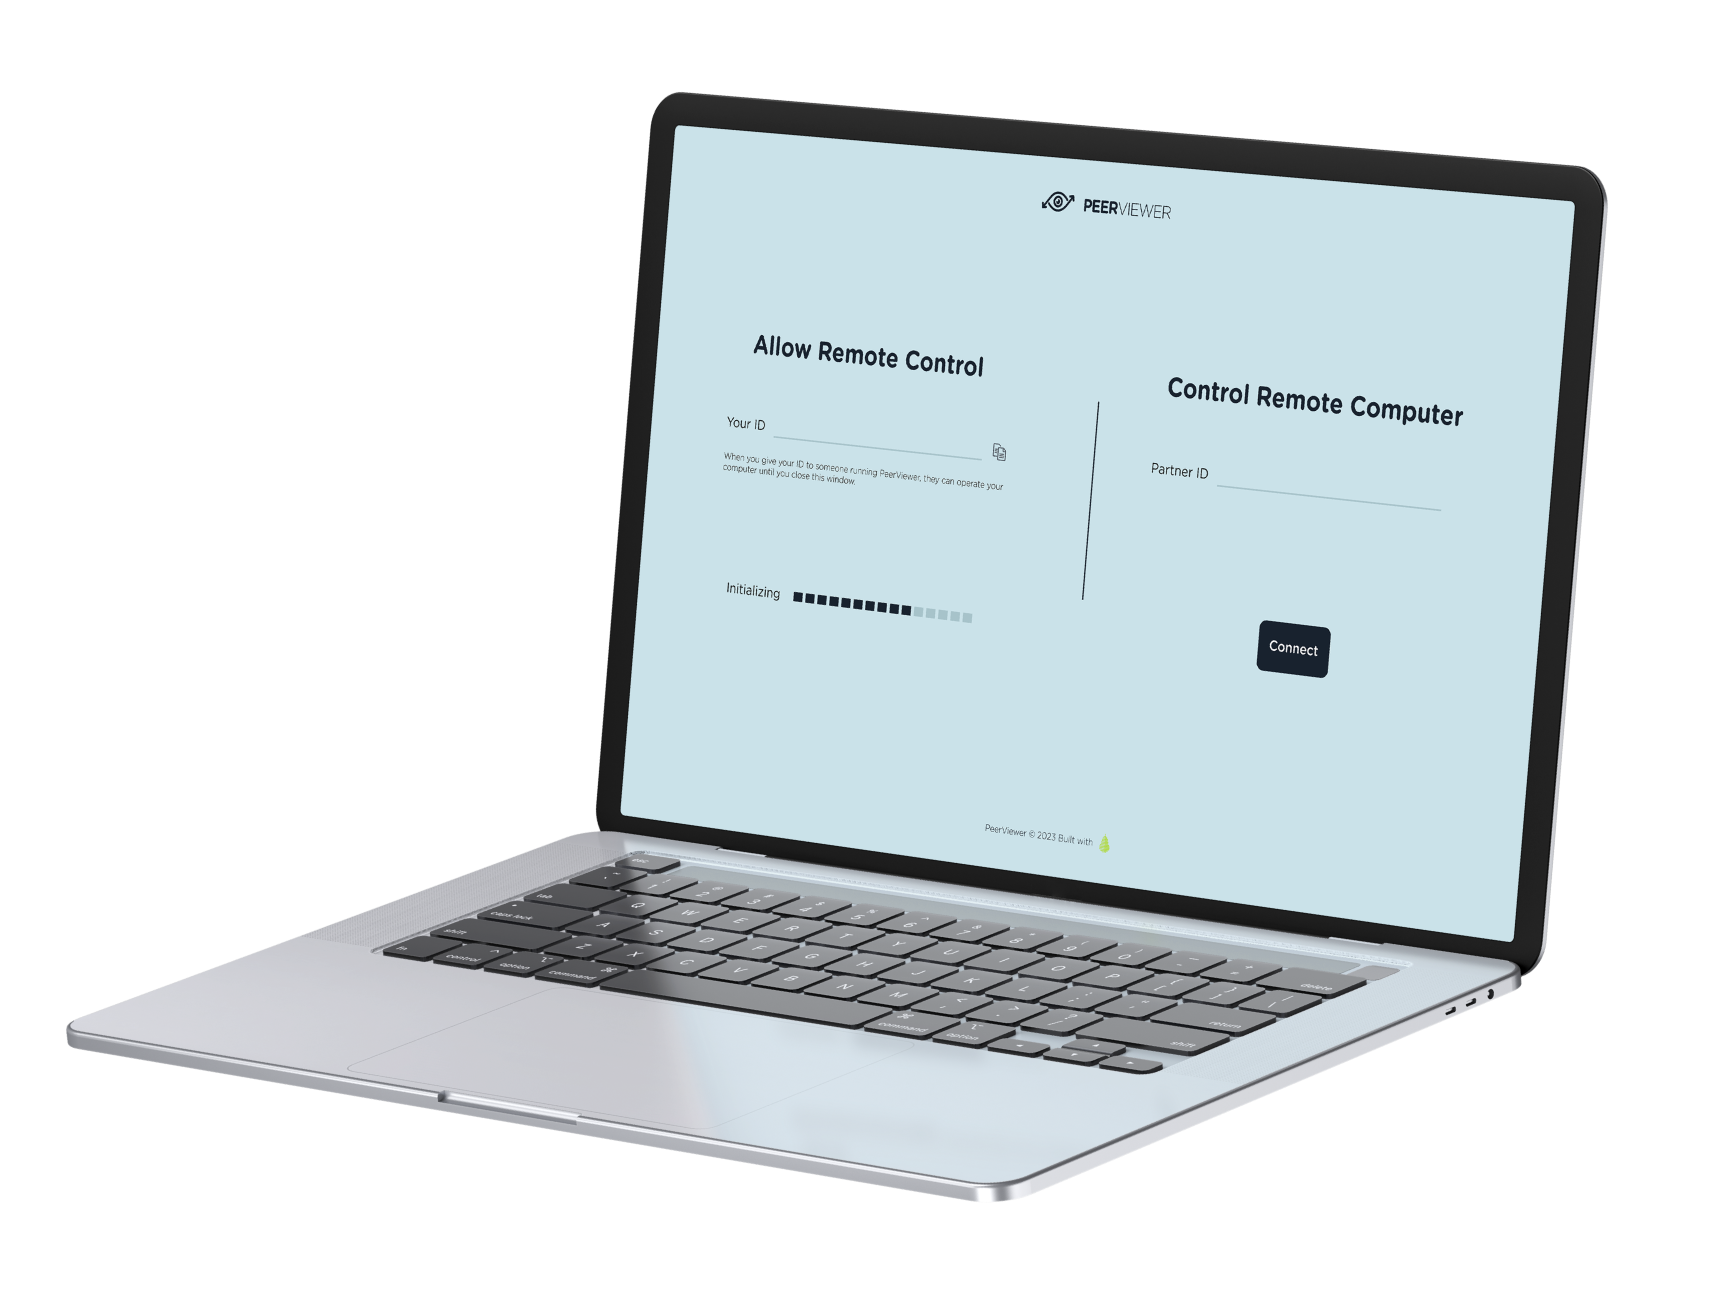
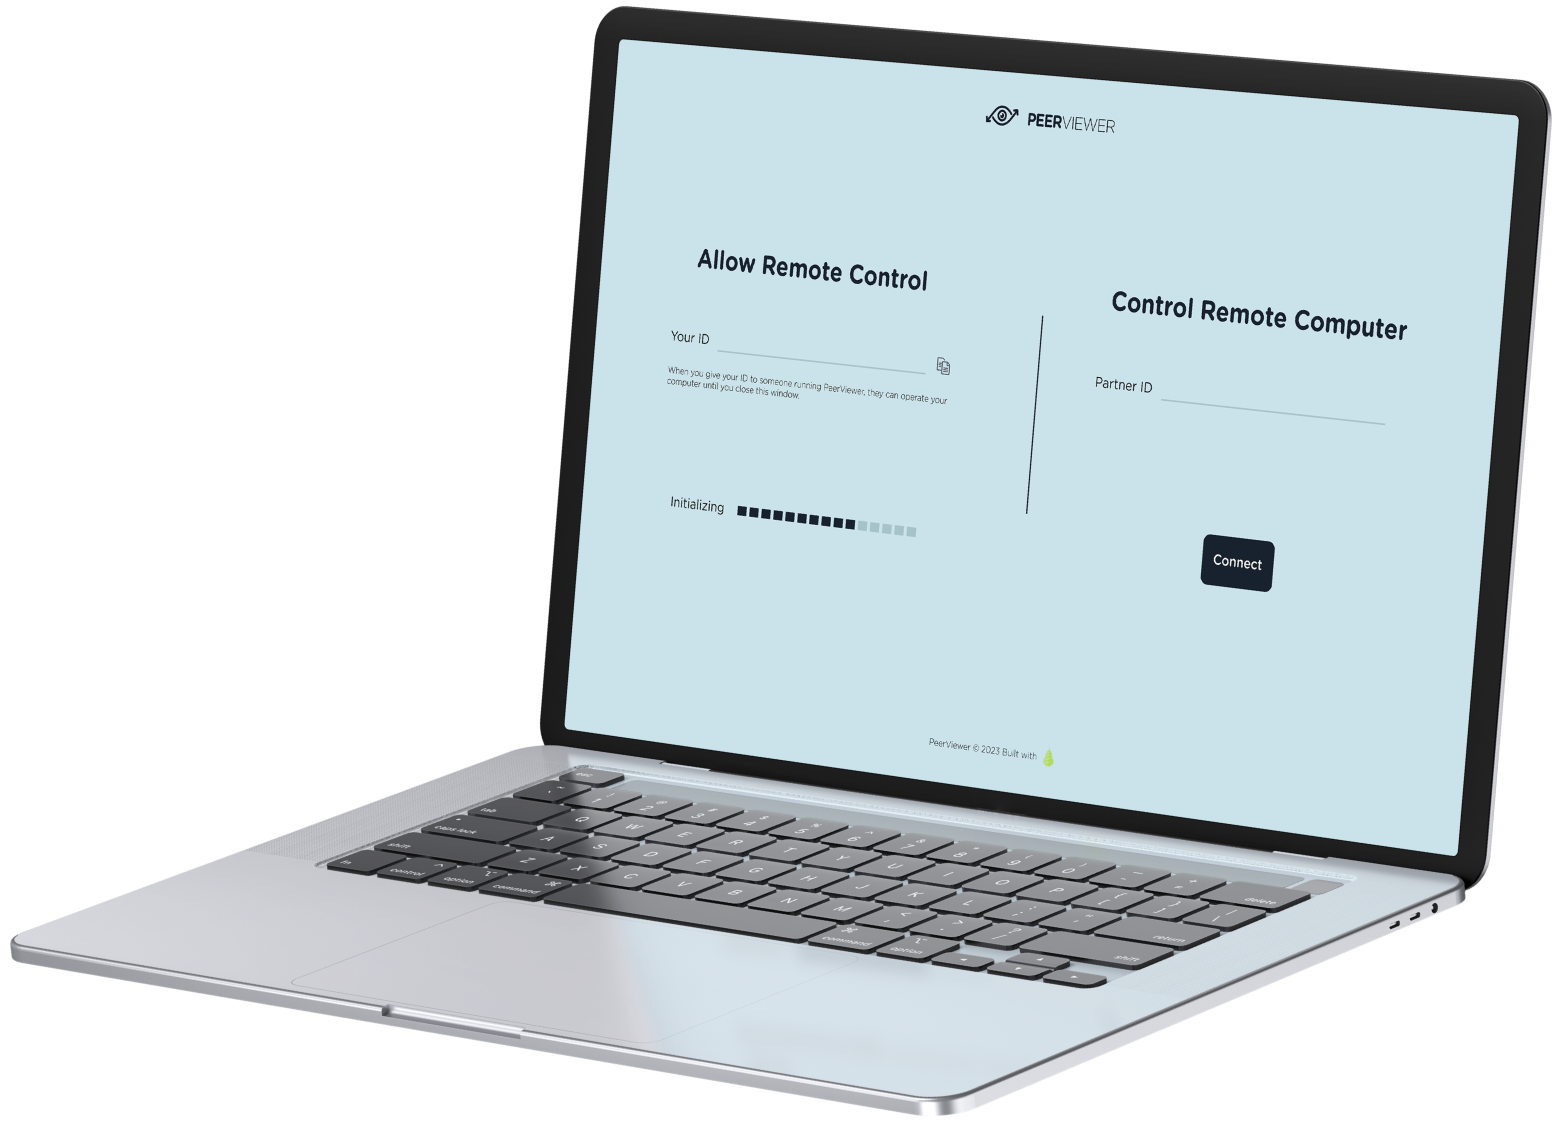
Improve laptop screen

diff --git a/src/index.css b/src/index.css
@@ -317,5 +317,5 @@ img.headericon {
 }
 
 .twocolumns {
-    width: 45%;
+    width: 42%;
 }
